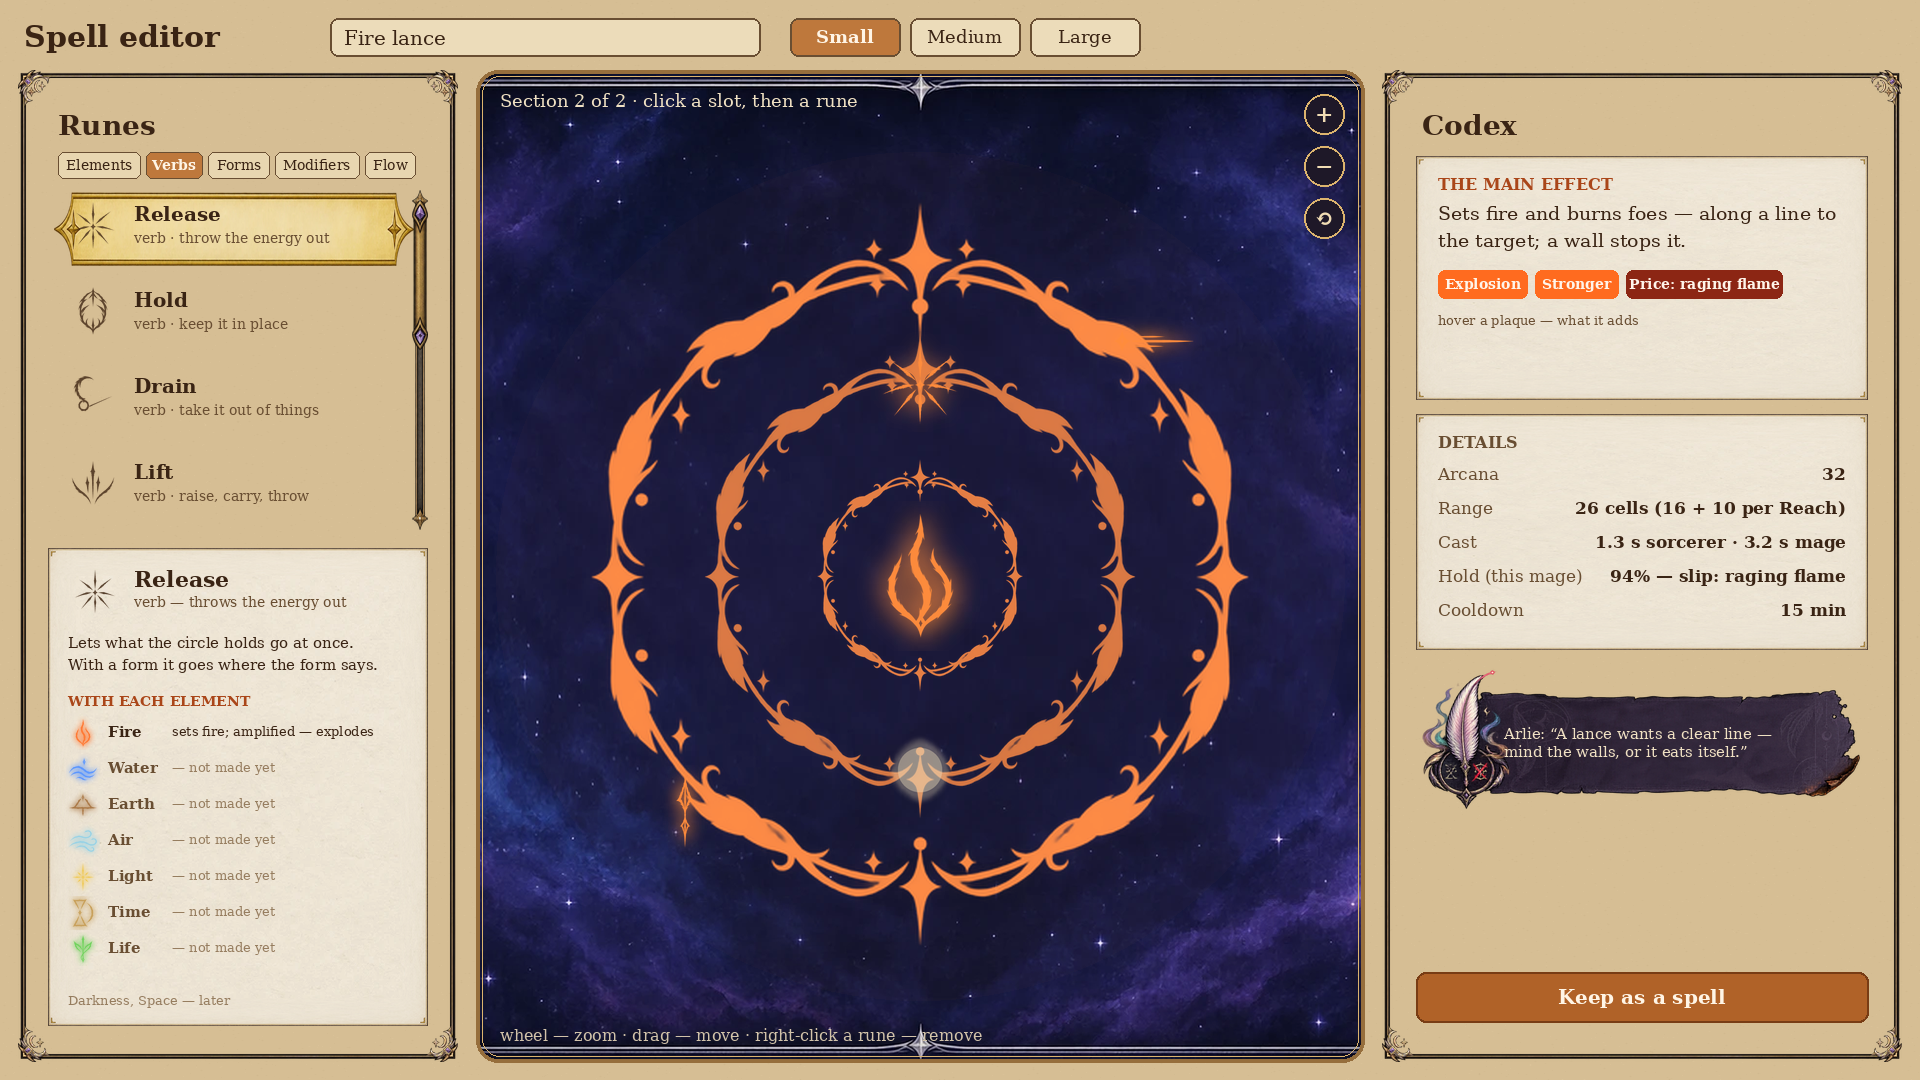
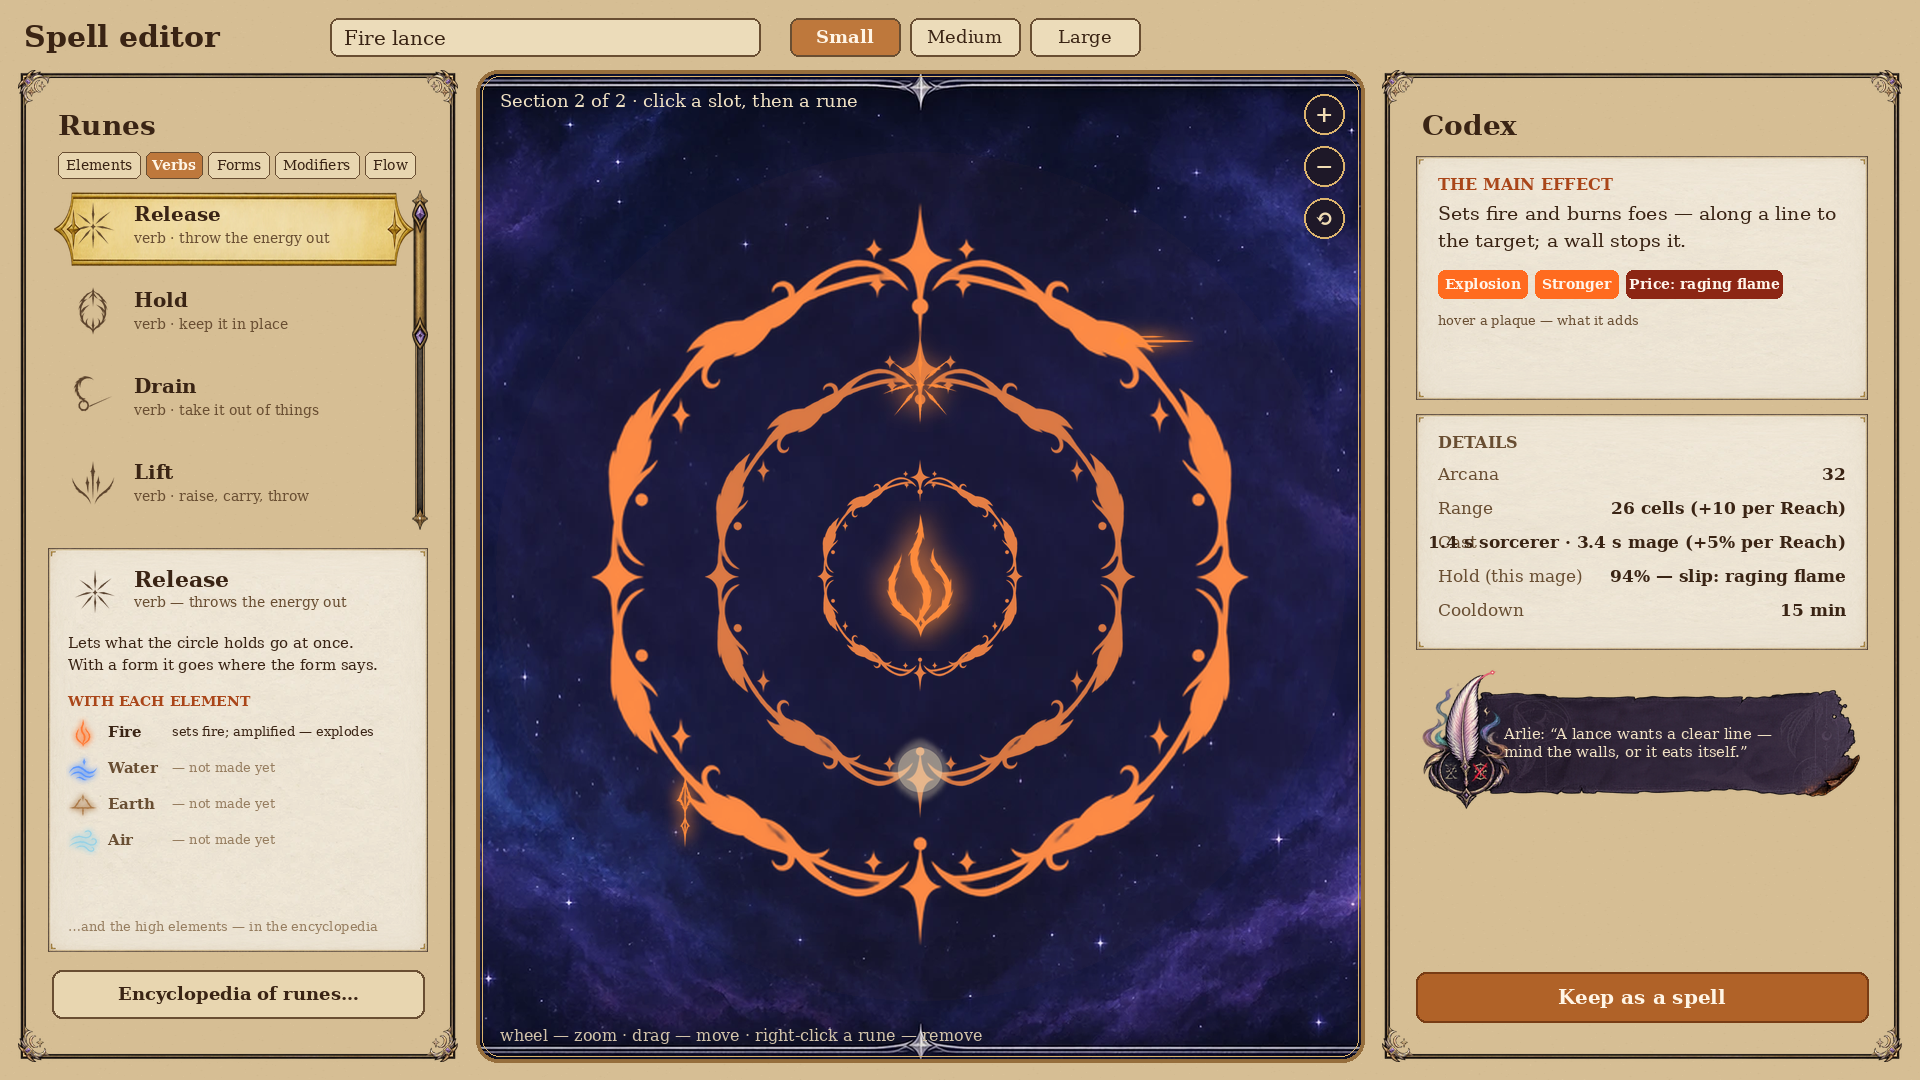
Magic: editor preview v4 (Song-style five-circle weave, encyclopedia button); decisions
Claude-Session: https://claude.ai/code/session_01YCWNLtj9zFsogxZeNiDKcG

Changed region(s): [[0.0, 0.7944, 0.25, 0.9472], [0.75, 0.4583, 0.9688, 0.5194]]

diff --git a/Framework/Magic/Магия-план.md b/Framework/Magic/Магия-план.md
@@ -1316,3 +1316,13 @@
 - **Плашка «Что делает»** в редакторе заклинаний: главная суть одной фразой + плашки доп. эффектов с подсказками; цена — красной плашкой (`SpellHelp.cs`).
 - **Примеры:** кнопка «Examples...» в книге мага — 13 готовых огненных заклинаний.
 - Остальные стихии пока работают по-старому (простой импульс). Порядок дальше (автор): 4 малые стихии → малые с малыми → большие → большие с малыми → большие с большими → Тьма потом.
+
+## 77. Редактор заклинаний — превью и решения автора
+
+- **Интерфейс:** центр — «космос» линариек (фон Песни, кольца путей, звёзды-гнёзда вместо квадратных рамок), зум и сдвиг; слева и справа — колонки ритуалистики (рамки, карточки, полоса прокрутки, плашка Арлии). Превью: `Превью-редактор-заклинаний.png`, `Превью-редактор-заклинаний-сплетение.png`.
+- **«The main effect»** вместо «What it does».
+- **Слева:** список рун + карточка выбранной руны (что делает, «With each element» — строка на каждую стихию) поменьше; кнопка **«Encyclopedia of runes…»** — меню со всеми рунами и всеми эффектами (энциклопедия).
+- **Справа:** The main effect + плашки; Details (Аркана, дальность, каст, удержание для этого мага, перезарядка); Арлия; «Keep as a spell».
+- **Каст:** руны Дальности **немного удлиняют** каст (ориентир +5% за руну) — автор. (Остальные надбавки — на согласование.)
+- **Шанс успеха** ритуальной плашки в заклинаниях не нужен — вместо него строка удержания в Details (предложение).
+- **Сплетение — как кольца Песни:** круги стоят кольцом вокруг **сердца** (центральная руна, запускает все), соседние круги перекрываются, **общая руна лежит на перекрытии**. Пять кругов — пятиугольник вокруг сердца, пять общих рун. Сплетение — для большого круга.
